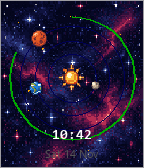
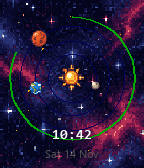
Add Pebble Round 2 (gabbro) support.
Round-safe layout, 260x260 starfield, gabbro store screenshots, and CloudPebble zip refresh.

diff --git a/src/c/face.c b/src/c/face.c
@@ -206,22 +206,36 @@ static void update_proc(Layer *layer, GContext *ctx) {
   GRect bounds = layer_get_bounds(layer);
   const FaceSettings *cfg = settings_get();
   ThemeColors theme = theme_colors(cfg->theme);
+
+  // True center on round; slight upward nudge on rect when digital captions show.
+#if defined(PBL_ROUND)
+  GPoint center = GPoint(bounds.size.w / 2, bounds.size.h / 2);
+#else
   GPoint center = GPoint(bounds.size.w / 2, bounds.size.h / 2 - (cfg->show_digital ? 6 : 0));
+#endif
 
   graphics_context_set_fill_color(ctx, theme.bg);
   graphics_fill_rect(ctx, bounds, 0, GCornerNone);
 
   if (cfg->show_starfield && s_starfield) {
     graphics_context_set_compositing_mode(ctx, GCompOpAssign);
-    graphics_draw_bitmap_in_rect(ctx, s_starfield, bounds);
+    GSize sf = gbitmap_get_bounds(s_starfield).size;
+    // Draw at native size centered — Pebble does not upscale bitmaps.
+    GRect dest = GRect(
+        (bounds.size.w - sf.w) / 2,
+        (bounds.size.h - sf.h) / 2,
+        sf.w,
+        sf.h);
+    graphics_draw_bitmap_in_rect(ctx, s_starfield, dest);
   }
 
   if (cfg->twinkle) {
     draw_twinkles(ctx, bounds, theme.accent);
   }
 
-  // Orbit radii sized for Pebble Time 2 (200x228) with headroom for basalt.
-  const int max_r = (bounds.size.w < bounds.size.h ? bounds.size.w : bounds.size.h) / 2 - 8;
+  // Scale orbits to the active display (144/200/260).
+  const int max_r = (bounds.size.w < bounds.size.h ? bounds.size.w : bounds.size.h) / 2
+                    - PBL_IF_ROUND_ELSE(14, 8);
   int sec_rx = max_r * 38 / 100;
   int min_rx = max_r * 58 / 100;
   int hour_rx = max_r * 82 / 100;
@@ -256,13 +270,22 @@ static void update_proc(Layer *layer, GContext *ctx) {
     draw_bitmap_centered(ctx, s_mercury, sec_pt);
   }
 
+  // Keep captions inside the circular bezel on Round 2 / Time Round.
+#if defined(PBL_ROUND)
+  const int time_y = bounds.size.h - 56;
+  const int date_y = bounds.size.h - 34;
+#else
+  const int time_y = bounds.size.h - 40;
+  const int date_y = bounds.size.h - 22;
+#endif
+
   if (cfg->show_digital) {
     char time_buf[16];
     format_time(time_buf, sizeof(time_buf));
     graphics_context_set_text_color(ctx, theme.text);
     graphics_draw_text(ctx, time_buf,
                        fonts_get_system_font(FONT_KEY_GOTHIC_18_BOLD),
-                       GRect(0, bounds.size.h - 40, bounds.size.w, 22),
+                       GRect(0, time_y, bounds.size.w, 22),
                        GTextOverflowModeTrailingEllipsis,
                        GTextAlignmentCenter, NULL);
   }
@@ -273,14 +296,19 @@ static void update_proc(Layer *layer, GContext *ctx) {
     graphics_context_set_text_color(ctx, theme.dim);
     graphics_draw_text(ctx, date_buf,
                        fonts_get_system_font(FONT_KEY_GOTHIC_14),
-                       GRect(0, bounds.size.h - 22, bounds.size.w, 18),
+                       GRect(0, date_y, bounds.size.w, 18),
                        GTextOverflowModeTrailingEllipsis,
                        GTextAlignmentCenter, NULL);
   }
 
   if (!s_bt_connected) {
     graphics_context_set_fill_color(ctx, theme.accent);
+#if defined(PBL_ROUND)
+    // Near top-center — corners are clipped on round displays.
+    graphics_fill_circle(ctx, GPoint(bounds.size.w / 2, 16), 3);
+#else
     graphics_fill_circle(ctx, GPoint(bounds.size.w - 8, 8), 3);
+#endif
   }
 }
 

diff --git a/tools/generate_store_screenshots.py b/tools/generate_store_screenshots.py
@@ -21,6 +21,7 @@ PLANETS = IMG / "planets"
 PLATFORMS = {
     "basalt": (144, 168, True),
     "emery": (200, 228, True),
+    "gabbro": (260, 260, True),  # Pebble Round 2
 }
 
 BLACK = (0, 0, 0)
@@ -224,17 +225,25 @@ def render(w: int, h: int, scene: dict) -> Image.Image:
     theme = THEMES[scene["theme"]]
     canvas = Image.new("RGB", (w, h), BLACK)
     draw = ImageDraw.Draw(canvas)
+    is_round = w == h
 
-    cy_nudge = 6 if scene["show_digital"] else 0
+    cy_nudge = 0 if is_round else (6 if scene["show_digital"] else 0)
     cx, cy = w // 2, h // 2 - cy_nudge
 
     if scene["show_starfield"]:
-        sf = Image.open(IMG / "starfield.png").convert("RGB").resize((w, h), Image.NEAREST)
-        canvas.paste(sf, (0, 0))
+        sf_path = IMG / ("starfield_round.png" if is_round else "starfield.png")
+        sf = Image.open(sf_path).convert("RGB")
+        if sf.size != (w, h):
+            # Center native art; do not stretch (matches watchface draw path).
+            ox = (w - sf.size[0]) // 2
+            oy = (h - sf.size[1]) // 2
+            canvas.paste(sf, (ox, oy))
+        else:
+            canvas.paste(sf, (0, 0))
 
     twinkle(draw, w, h, theme["accent"], pulse=scene["second"] % 7)
 
-    max_r = min(w, h) // 2 - 8
+    max_r = min(w, h) // 2 - (14 if is_round else 8)
     sec_rx = max_r * 38 // 100
     min_rx = max_r * 58 // 100
     hour_rx = max_r * 82 // 100
@@ -262,8 +271,13 @@ def render(w: int, h: int, scene: dict) -> Image.Image:
             draw.line([prev, p], fill=theme["battery"], width=2)
             prev = p
 
-    # Scale sprites slightly down on basalt
-    scale = 1.0 if w >= 200 else 0.78
+    # Scale sprites for basalt (down) / gabbro (slightly up)
+    if w >= 260:
+        scale = 1.15
+    elif w >= 200:
+        scale = 1.0
+    else:
+        scale = 0.78
     sun = load_sprite("sun.png")
     earth = load_sprite("earth.png")
     mercury = load_sprite("mercury.png")
@@ -301,6 +315,8 @@ def render(w: int, h: int, scene: dict) -> Image.Image:
 
     # Redraw text atop sprites
     draw = ImageDraw.Draw(canvas)
+    time_y = h - 56 if is_round else h - 40
+    date_y = h - 34 if is_round else h - 22
     if scene["show_digital"]:
         hour = scene["hour"] % 12
         if hour == 0:
@@ -309,7 +325,7 @@ def render(w: int, h: int, scene: dict) -> Image.Image:
         draw_text_center(
             draw,
             time_str,
-            h - 40,
+            time_y,
             w,
             font(max(14, w // 11), bold=True),
             theme["text"],
@@ -319,11 +335,19 @@ def render(w: int, h: int, scene: dict) -> Image.Image:
         draw_text_center(
             draw,
             scene.get("date", ""),
-            h - 22,
+            date_y,
             w,
             font(max(11, w // 14)),
             theme["dim"],
         )
+
+    # Soft circular crop for Round 2 store shots (no bezel chrome).
+    if is_round:
+        mask = Image.new("L", (w, h), 0)
+        ImageDraw.Draw(mask).ellipse((0, 0, w - 1, h - 1), fill=255)
+        rounded = Image.new("RGB", (w, h), BLACK)
+        rounded.paste(canvas, (0, 0), mask)
+        return rounded
 
     return canvas
 

diff --git a/STORE.md b/STORE.md
@@ -11,6 +11,7 @@ Copy these fields into [dev-portal.rebble.io](https://dev-portal.rebble.io/submi
 | Source code | https://github.com/TechJeeper/Heliochron |
 | `.pbw` | `build/Heliochron.pbw` |
 | CloudPebble zip | `dist/Heliochron-cloudpebble.zip` |
+| Platforms | Pebble Time 2 (emery), Time / Time Steel (basalt), Round 2 (gabbro) |
 
 ## Description
 
@@ -30,7 +31,7 @@ A living orrery on your wrist. Heliochron turns time into a solar system: the Su
 • Hourly vibrate
 • Clay phone settings
 
-Designed for Pebble Time 2; also runs on Pebble Time / Time Steel.
+Designed for Pebble Time 2 and Pebble Round 2; also runs on Pebble Time / Time Steel.
 ```
 
 ## Short blurb (optional)
@@ -39,10 +40,10 @@ Designed for Pebble Time 2; also runs on Pebble Time / Time Steel.
 Solar system watchface — planets keep the hours, minutes, and seconds around a PixelLab sun.
 ```
 
-## Release notes (v1.0.0)
+## Release notes (v1.1.0)
 
 ```
-Initial release: orbital solar-system watchface with Clay themes, hour-planet choice, elliptical orbits, and PixelLab art.
+Add Pebble Round 2 (gabbro) support: 260×260 starfield, round-safe layout, and store screenshots.
 ```
 
 ## Screenshots
@@ -57,6 +58,7 @@ python tools/generate_store_screenshots.py
 | --- | --- | --- |
 | basalt (Pebble Time) | 144×168 | `store/screenshots/basalt/` |
 | emery (Pebble Time 2) | 200×228 | `store/screenshots/emery/` |
+| gabbro (Pebble Round 2) | 260×260 | `store/screenshots/gabbro/` |
 
 Five shots per platform:
 
@@ -71,4 +73,4 @@ Five shots per platform:
 - [ ] Screenshots uploaded per platform (up to 5)
 - [ ] Description above on each asset collection
 - [ ] Source URL set to the GitHub repo
-- [ ] Publish `build/Heliochron.pbw` as release 1.0.0
+- [ ] Publish `build/Heliochron.pbw` as release 1.1.0

diff --git a/README.md b/README.md
@@ -52,7 +52,9 @@ python tools/generate_store_screenshots.py
 
 - Import zip: `dist/Heliochron-cloudpebble.zip`
 - Store copy + screenshot notes: [`STORE.md`](STORE.md)
-- Screenshots: `store/screenshots/{basalt,emery}/`
+- Screenshots: `store/screenshots/{basalt,emery,gabbro}/`
+
+Targets **Pebble Time 2** (emery), **Pebble Time / Time Steel** (basalt), and **Pebble Round 2** (gabbro).
 
 ## Name note
 
